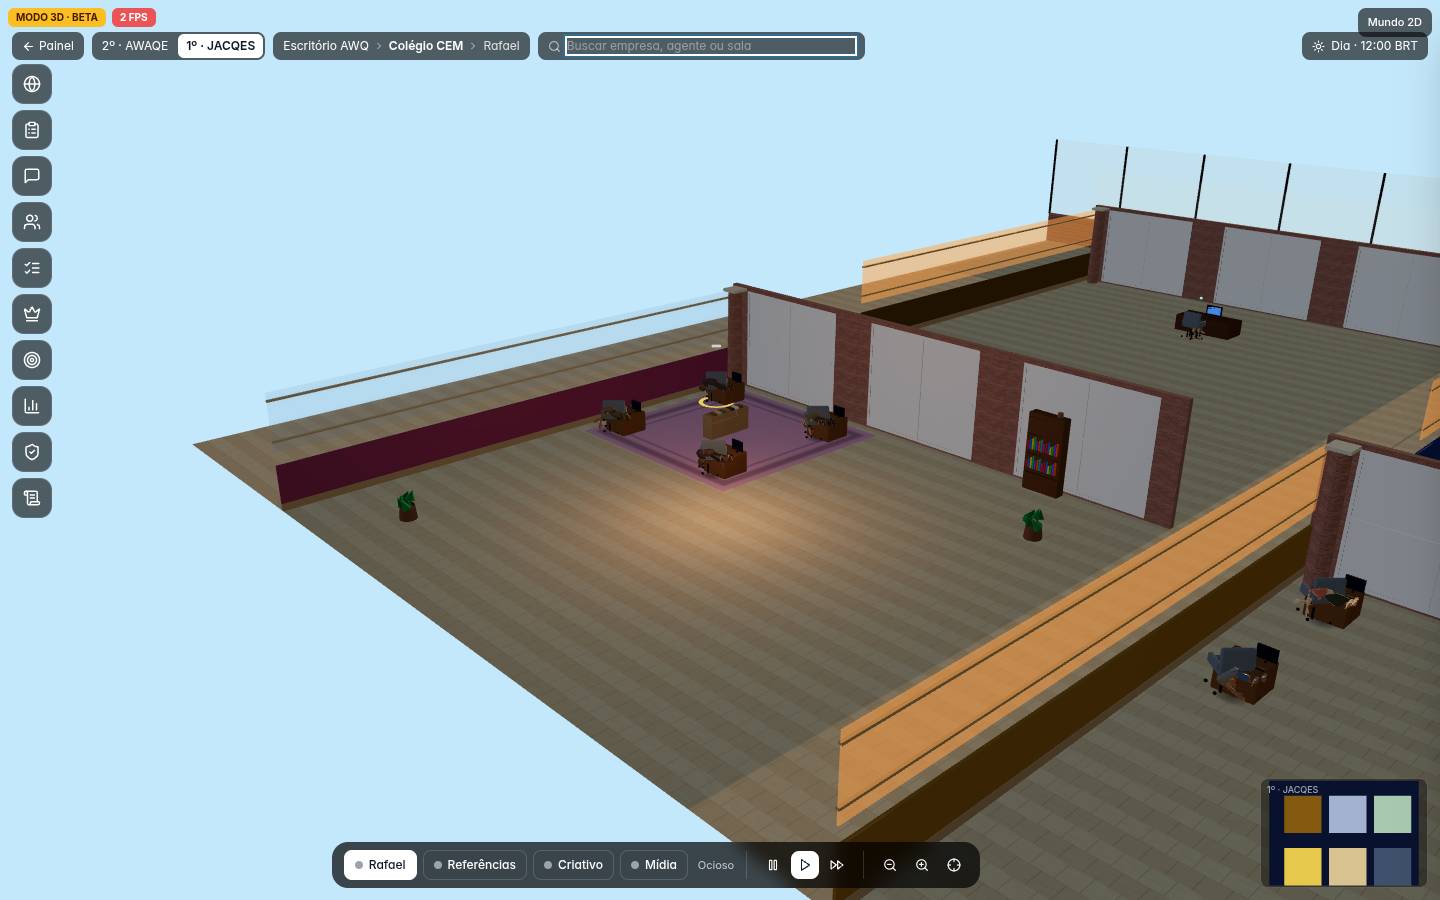
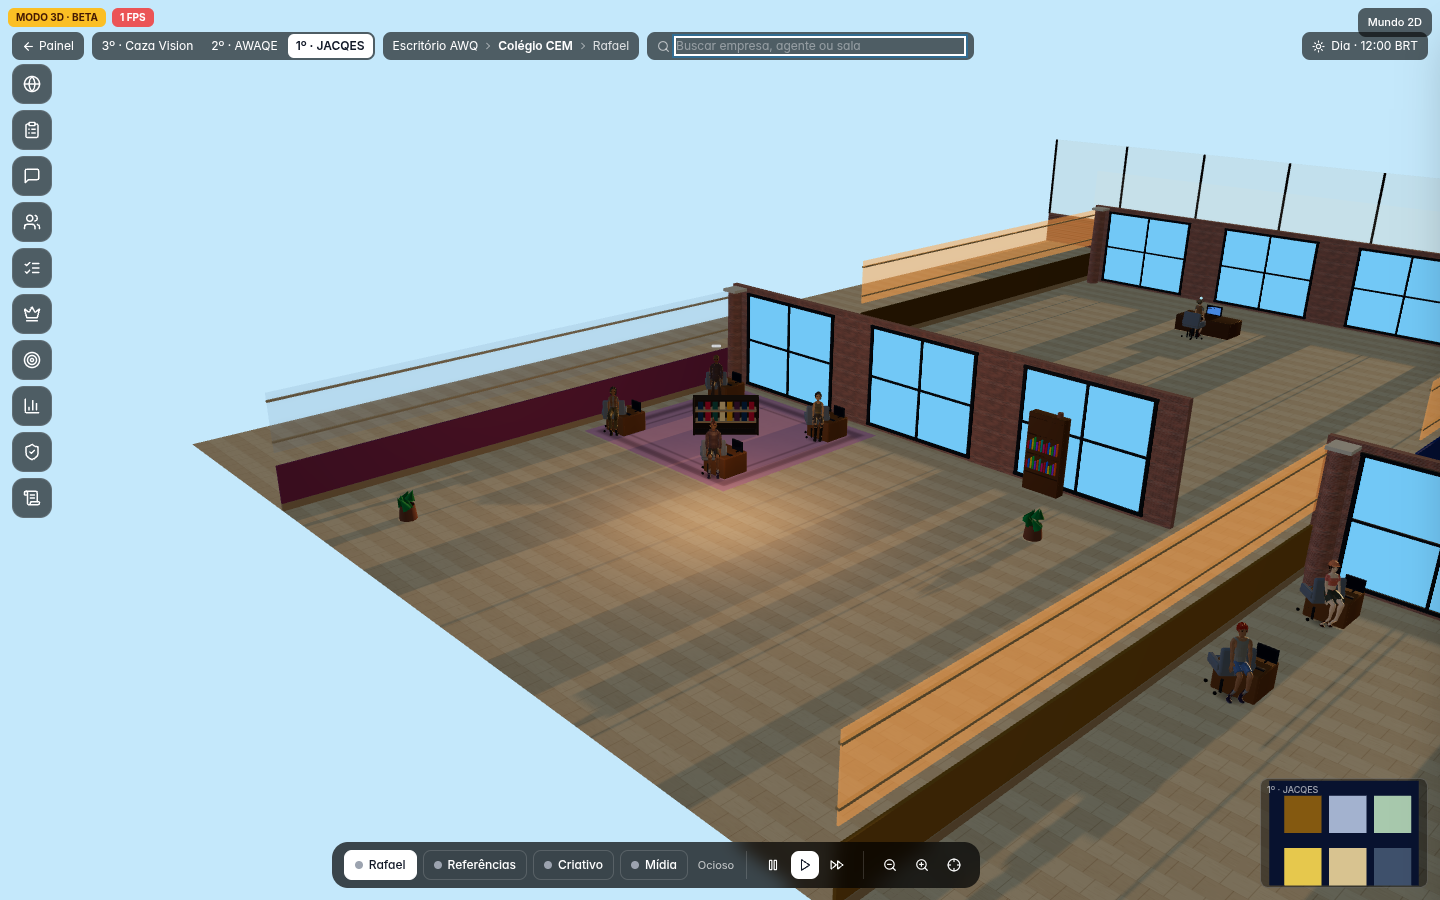
fix(office): janela com céu atrás e caixilho escuro
O vão deixa de ser uma placa clara: o céu da hora fica no vidro e a moldura escura desenha o caixilho.

diff --git a/components/office/OfficeGame3D.tsx b/components/office/OfficeGame3D.tsx
@@ -413,7 +413,7 @@ function ParedeDetalhada({ comprimento, corAccent, brilho = false }: { comprimen
   );
 }
 
-const MOLDURA_JANELA = "#f4efe6";
+const MOLDURA_JANELA = "#2c3338";
 
 /** Cada malha clona o tijolo e repete pela própria medida — a textura compartilhada esticava. */
 function mapaTijolo(largura: number, altura: number) {
@@ -435,8 +435,9 @@ function MalhaTijolo({ args, position }: { args: [number, number, number]; posit
   );
 }
 
-/** Parede externa da sala: tijolo aparente e janelões do piso ao teto, com caixilho claro. */
-function ParedeExterna({ comprimento }: { comprimento: number }) {
+/** Parede externa da sala: tijolo aparente e janelões do piso ao teto.
+ *  O céu fica atrás do vidro; o caixilho escuro impede que o vão leia como uma placa branca. */
+function ParedeExterna({ comprimento, hora }: { comprimento: number; hora: number }) {
   const n = Math.max(1, Math.round(comprimento / 3.2));
   const mod = comprimento / n;
   const janelaL = mod * 0.7;
@@ -444,6 +445,7 @@ function ParedeExterna({ comprimento }: { comprimento: number }) {
   const janelaTopo = 2.2;
   const topo = 2.35;
   const janelaH = janelaTopo - janelaBase;
+  const ceuJanela = ceu(hora).topo;
   return (
     <group>
       <MalhaTijolo args={[comprimento, janelaBase, 0.12]} position={[comprimento / 2, janelaBase / 2, 0]} />
@@ -460,19 +462,32 @@ function ParedeExterna({ comprimento }: { comprimento: number }) {
         const meio = (janelaBase + janelaTopo) / 2;
         return (
           <group key={`j${i}`}>
-            <mesh position={[cx, meio, 0.03]} castShadow>
-              <boxGeometry args={[janelaL + 0.12, janelaH + 0.12, 0.07]} />
-              <meshStandardMaterial color={MOLDURA_JANELA} roughness={0.42} />
-            </mesh>
-            <mesh position={[cx, meio, 0.06]}>
+            <mesh position={[cx, meio, 0.07]}>
               <planeGeometry args={[janelaL, janelaH]} />
-              <meshPhysicalMaterial color="#d7e6f4" transparent opacity={0.32} roughness={0.08} metalness={0.04} />
+              <meshBasicMaterial color={ceuJanela} toneMapped={false} />
             </mesh>
-            <mesh position={[cx, meio, 0.07]} castShadow>
+            <mesh position={[cx, meio, 0.075]}>
+              <planeGeometry args={[janelaL - 0.08, janelaH - 0.08]} />
+              <meshBasicMaterial color="#f7fbff" transparent opacity={0.14} depthWrite={false} toneMapped={false} />
+            </mesh>
+            {(
+              [
+                [0, janelaH / 2, janelaL + 0.08, 0.06],
+                [0, -janelaH / 2, janelaL + 0.08, 0.06],
+                [-janelaL / 2, 0, 0.06, janelaH],
+                [janelaL / 2, 0, 0.06, janelaH],
+              ] as const
+            ).map(([ox, oy, lw, lh], k) => (
+              <mesh key={k} position={[cx + ox, meio + oy, 0.09]} castShadow>
+                <boxGeometry args={[lw, lh, 0.05]} />
+                <meshStandardMaterial color={MOLDURA_JANELA} roughness={0.42} />
+              </mesh>
+            ))}
+            <mesh position={[cx, meio, 0.09]} castShadow>
               <boxGeometry args={[0.045, janelaH, 0.04]} />
               <meshStandardMaterial color={MOLDURA_JANELA} roughness={0.42} />
             </mesh>
-            <mesh position={[cx, meio, 0.07]}>
+            <mesh position={[cx, meio, 0.09]}>
               <boxGeometry args={[janelaL, 0.04, 0.04]} />
               <meshStandardMaterial color={MOLDURA_JANELA} roughness={0.42} />
             </mesh>
@@ -575,7 +590,7 @@ function Planta({ posicao, escala = 1 }: { posicao: [number, number]; escala?: n
 // ── Sala de uma squad (piso + 2 paredes de fundo + 4 mesas) ────────────────────────────
 
 function Sala({
-  predio, estados, atividade, selecionado, ativo, detalhado, onEntrar, onSelecionar,
+  predio, estados, atividade, selecionado, ativo, detalhado, hora, onEntrar, onSelecionar,
 }: {
   predio: PredioW;
   estados: Record<Agente, Estado>;
@@ -586,6 +601,7 @@ function Sala({
    * peças decorativas mais caras (estante, plantas, tapete) — continuam reconhecíveis (piso,
    * paredes, mesas, personagens), só sem o acabamento fino que só compensa de perto. */
   detalhado: boolean;
+  hora: number;
   onEntrar: () => void;
   onSelecionar: (a: Agente) => void;
 }) {
@@ -624,7 +640,7 @@ function Sala({
         <pointLight position={[w / 2, 2.2, d / 2]} color="#ffc48a" intensity={6} distance={14} decay={2} />
       )}
       <group position={[0, 0, 0.02]}>
-        <ParedeExterna comprimento={w} />
+        <ParedeExterna comprimento={w} hora={hora} />
       </group>
       <group position={[0.02, 0, 0]} rotation-y={-Math.PI / 2}>
         <ParedeDetalhada comprimento={d} corAccent={tema.paredeD} brilho={!ativo} />
@@ -837,11 +853,12 @@ type CasaId = "diretoria" | "reunioes" | "estudio";
 /** Sala do Miguel ou sala de reuniões — o mesmo slot da planta 2D, com o acabamento do Modo 3D.
  * O passeio com pathfinding continua só nas salas de squad; aqui todo mundo fica sentado. */
 function SalaDaCasa({
-  tipo, detalhado, reuniao, onEntrar,
+  tipo, detalhado, reuniao, hora, onEntrar,
 }: {
   tipo: "diretoria" | "reunioes";
   detalhado: boolean;
   reuniao?: EstadoReuniao[];
+  hora: number;
   onEntrar: () => void;
 }) {
   const origem = tipo === "diretoria" ? SALAS_CASA.diretoria : SALAS_CASA.reunioes;
@@ -879,7 +896,7 @@ function SalaDaCasa({
         <pointLight position={[w / 2, 2.2, d / 2]} color="#ffc48a" intensity={6} distance={14} decay={2} />
       )}
       <group position={[0, 0, 0.02]}>
-        <ParedeExterna comprimento={w} />
+        <ParedeExterna comprimento={w} hora={hora} />
       </group>
       <group position={[0.02, 0, 0]} rotation-y={-Math.PI / 2}>
         <ParedeDetalhada comprimento={d} corAccent={accent} brilho={!detalhado} />
@@ -1263,11 +1280,12 @@ function Cena({
           selecionado={selecionado}
           ativo={vista === "sala" && p.empresa.bu === buAtual}
           detalhado={vista === "sala" && p.empresa.bu === buAtual}
+          hora={hora}
           onEntrar={() => onEntrar(p.empresa.bu)}
           onSelecionar={onSelecionar}
         />
       ))}
-      <SalaDaCasa tipo="diretoria" detalhado={vista === "casa" && focoCasa === "diretoria"} onEntrar={() => onFocarCasa("diretoria")} />
+      <SalaDaCasa tipo="diretoria" detalhado={vista === "casa" && focoCasa === "diretoria"} hora={hora} onEntrar={() => onFocarCasa("diretoria")} />
       {andar === "caza" ? (
         <SlotDoEstudio detalhado={vista === "casa" && focoCasa === "estudio"} onEntrar={() => onFocarCasa("estudio")} />
       ) : (
@@ -1275,6 +1293,7 @@ function Cena({
           tipo="reunioes"
           detalhado={vista === "casa" && focoCasa === "reunioes"}
           reuniao={reuniao}
+          hora={hora}
           onEntrar={() => onFocarCasa("reunioes")}
         />
       )}
